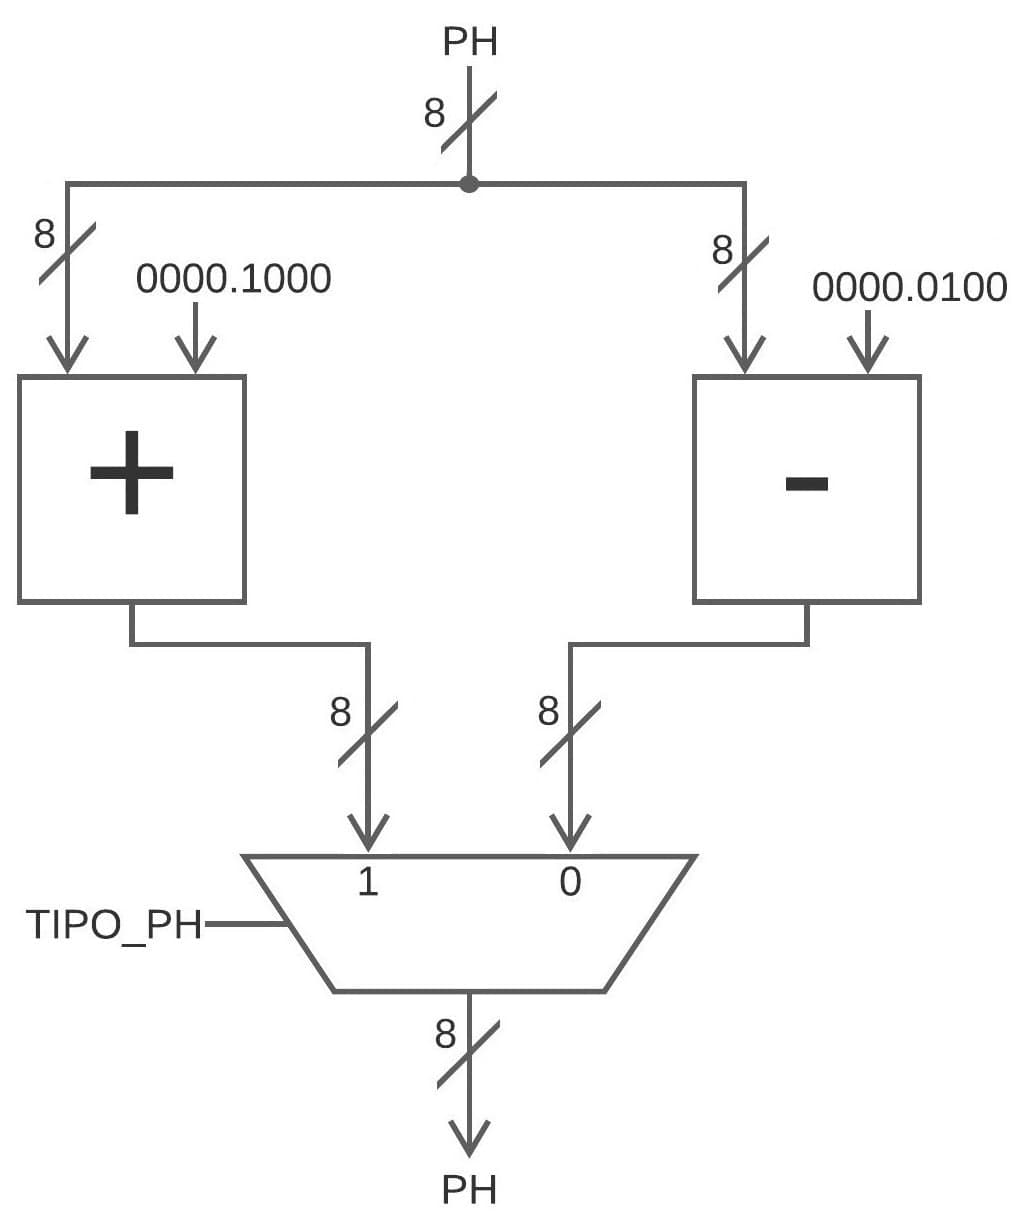
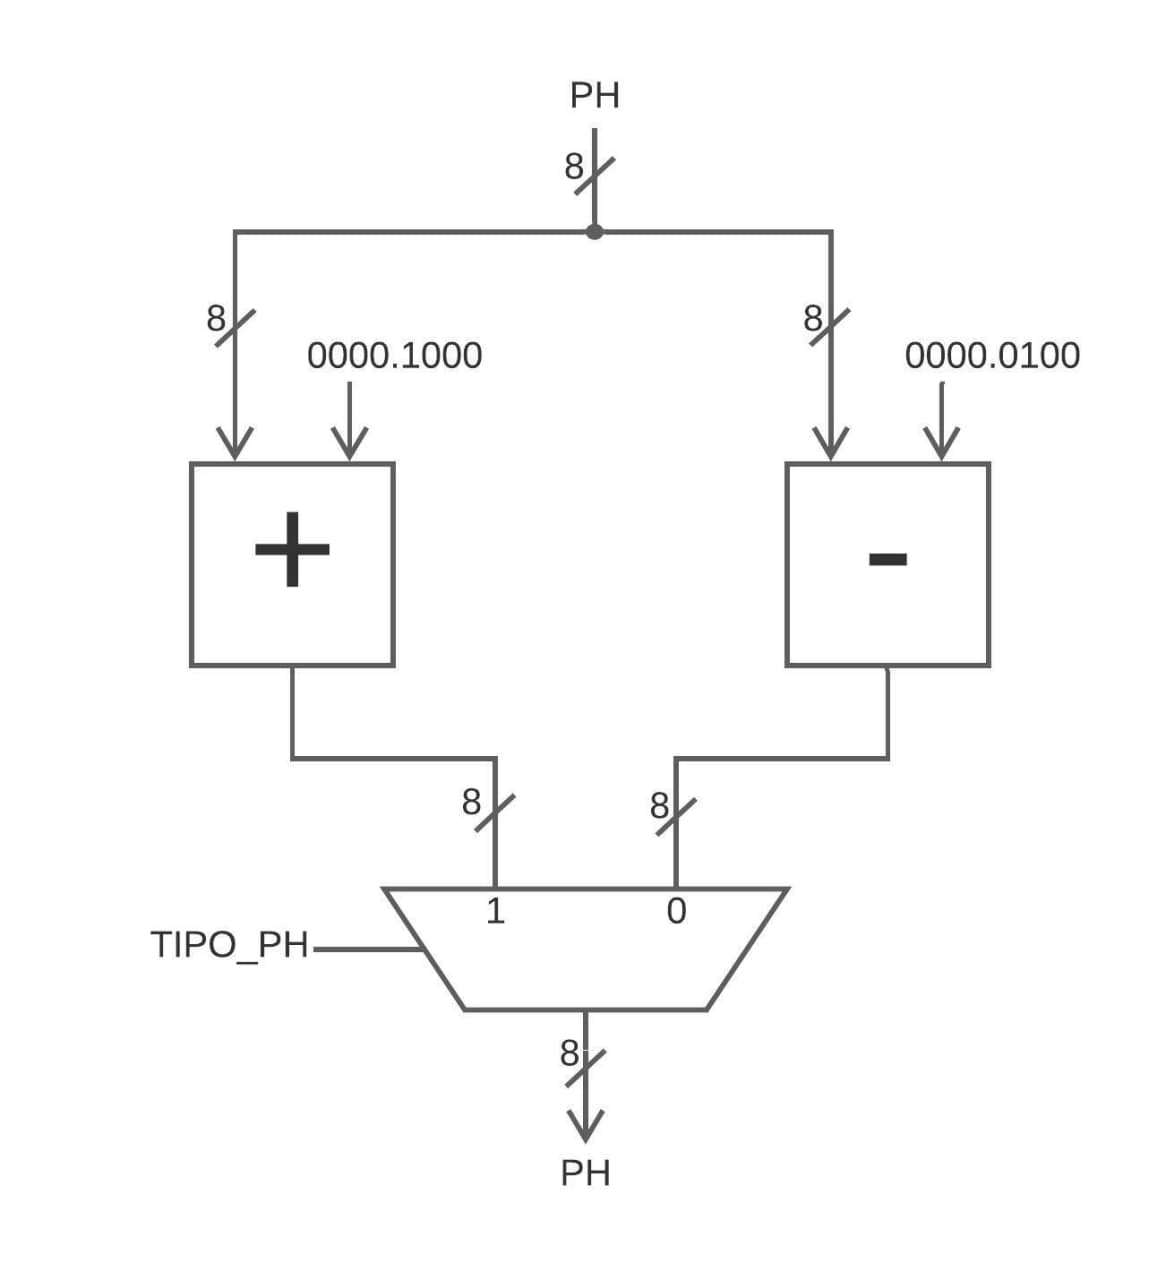
Aggiorante immagini e report

Changed region(s): [[0.0, 0.0, 0.9884, 0.987]]

diff --git a/docs/report.md b/docs/report.md
@@ -146,17 +146,23 @@ Il modificatore utilizza un sommatore, un sottrattore ed un multiplexer ad 8 bit
 
 Se il `TIPO_PH` equivale a `0`, incrementa il valore del pH di `0.50`, al contrario, se il `TIPO_PH` equivale ad `1`, allora lo decrementa di `0.25`.
 
+![Modifier](./img/Modifier.jpg)
+
 ### Errore
 
 Il componente utilizza un maggiore ad 8 bit.
 
 Confronta il valore del pH, se questo supera il `14`, allora restituisce `1`, cioè *vero*.
 
+![Error](./img/Error.jpg)
+
 ### Neutrale
 
 Il componente utilizza un maggiore ed un minore ad 8 bit; nonché una porta NOR ad un bit.
 
 Confronta il valore del pH, se questo è compreso in `[7.00, 8.00]` allora restituisce `1`, cioè *vero*.
+
+![Neutral](./img/Neutral.jpg)
 
 ## Alcune simulazioni
 
